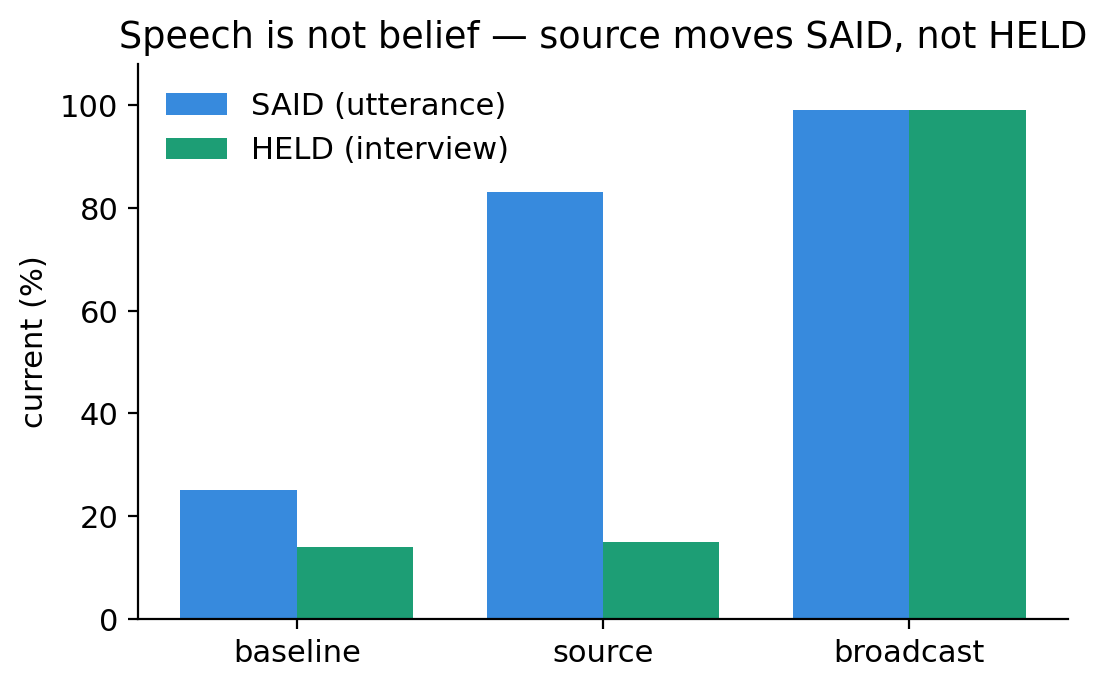
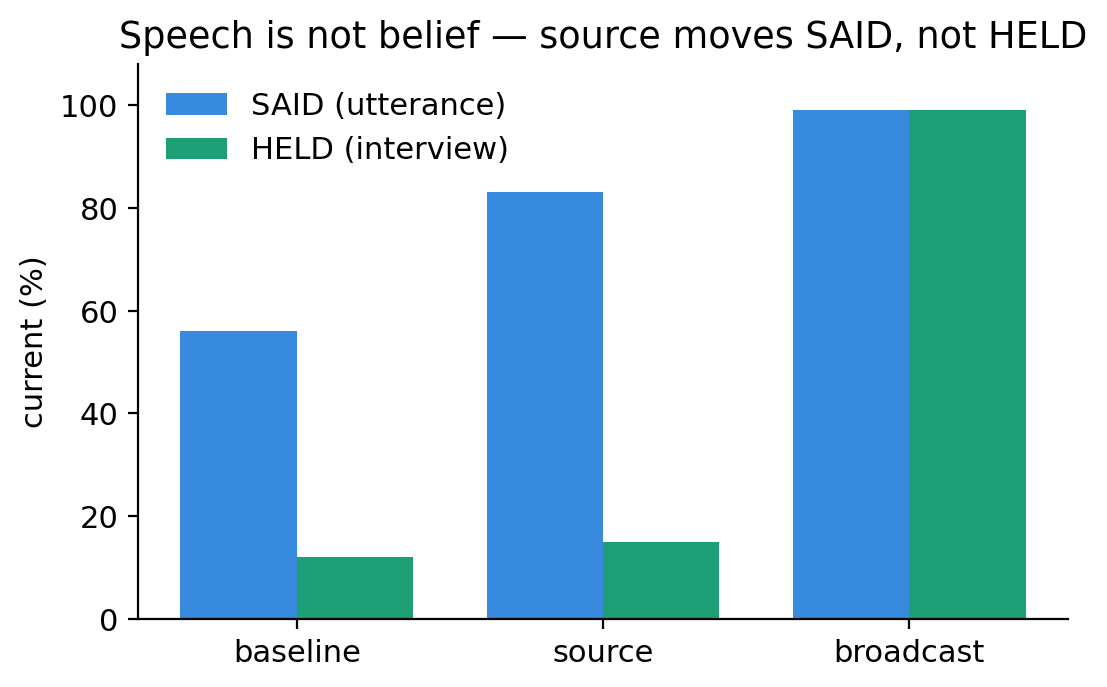
fix(5-Telephone): correct Fig 2 / Table 2 dissociation data (baseline SAID 25->56)
Review caught a data error: baseline SAID was written as 25%, but the M4 ledger shows
final-round said Sun:Sat = 18:14 = 56% (HELD baseline 3.0/25 = 12%, not 14%). source
(83/15) and broadcast (99/99) were correct. Fixed in draft_v1.md (text + Table 2),
figure_guide.md (Table 2 with raw counts), and re-rendered fig_say_vs_hold.png. The
corrected figure shows the dissociation more honestly: even baseline says more than it
holds, and source pushes SAID higher while HELD stays put.

Also normalized related-work system citations to bib-backed (Author Year): CAMEL
(li2023camel), AutoGen (wu2023autogen), SOTOPIA (zhou2024sotopia). All draft citations
verified present in references.bib (49 keys).

Changed region(s): [[0.1536, 0.4585, 0.2764, 0.7336], [0.2457, 0.7948, 0.3686, 0.8253]]

diff --git a/5-Telephone/paper/scripts/render_latest_figs.py b/5-Telephone/paper/scripts/render_latest_figs.py
@@ -39,8 +39,8 @@ save(fig, "fig_failed_levers.png")
 # 2 — say vs hold dissociation (M4)
 fig, ax = plt.subplots(figsize=(6, 3.6))
 x = np.arange(3); w = 0.38
-ax.bar(x-w/2, [25, 83, 99], w, label="SAID (utterance)", color=BLUE)
-ax.bar(x+w/2, [14, 15, 99], w, label="HELD (interview)", color=TEAL)
+ax.bar(x-w/2, [56, 83, 99], w, label="SAID (utterance)", color=BLUE)
+ax.bar(x+w/2, [12, 15, 99], w, label="HELD (interview)", color=TEAL)
 ax.set_xticks(x); ax.set_xticklabels(["baseline", "source", "broadcast"])
 ax.set_ylabel("current (%)"); ax.set_ylim(0, 108); ax.legend(frameon=False)
 ax.set_title("Speech is not belief — source moves SAID, not HELD")

diff --git a/5-Telephone/paper/draft_v1.md b/5-Telephone/paper/draft_v1.md
@@ -44,7 +44,7 @@ usually conflated:
 - **Held answer** — whether agents answer with the current value when probed after transmission.
 
 Generative-agent work establishes that information can spread through an agent society
-(Park et al. 2023; CAMEL; AutoGen; SOTOPIA). That is not the same as showing the spread is
+(Park et al. 2023; Li et al. 2023; Wu et al. 2023; Zhou et al. 2024). That is not the same as showing the spread is
 faithful. A correction, schedule change, or policy update can reach the conversation stream
 while failing to become the society's later answer. Our central empirical pattern is that reach
 and speech can improve **without** durable held truth — so "information spread" is not enough as
@@ -68,8 +68,9 @@ authoritative version, does it supersede the old one?"
 
 ## 2. Related work
 
-**Agent societies and communicative agents.** Generative Agents, CAMEL, AutoGen, and SOTOPIA
-establish the setting: agents talk, remember, coordinate, and simulate social environments. We
+**Agent societies and communicative agents.** Generative Agents (Park et al. 2023), CAMEL
+(Li et al. 2023), AutoGen (Wu et al. 2023), and SOTOPIA (Zhou et al. 2024) establish the setting:
+agents talk, remember, coordinate, and simulate social environments. We
 ask a missing reliability question inside that setting — fidelity of a *changing* held fact.
 
 **Misinformation, rumor, reach vs fidelity.** Rumor and continued-influence work distinguishes
@@ -144,16 +145,18 @@ source: Δ+0.8 (ns); broadcast: +21.8 (sig) → 99%.
 ### 4.2 Speech is not belief
 
 Figure 2 is the centerpiece. Separating SAID (final-round utterances) from HELD (private
-interviews) reveals a dissociation: under a persistent authoritative source, agents increasingly
-**say** the current value (SAID 25→83%) while their **held** belief stays at baseline (≈15%).
-Only broadcast moves both (99/99). Reach is not belief — a fact can be visible in the log while
+interviews) reveals a dissociation: under a persistent authoritative source, agents
+**say** the current value at the final round (SAID 83%) while their **held** belief stays near
+baseline (15%); even baseline agents say it more than they hold it (SAID 56% / HELD 12%). Only
+broadcast aligns both (99/99). Reach is not belief — a fact can be visible in the log while
 failing as held state.
 
 ![Figure 2. Speech is not belief (SAY/HOLD dissociation).](figures/fig_say_vs_hold.png)
 
-*Table 2 — HEARD→SAID→HELD.* baseline said 25 / held 14; source said 83 / held 15 (the gap);
-broadcast said 99 / held 99. The source row's high-SAID, low-HELD is the dissociation. The
-pattern replicates across three scenarios (G1) and survives thick personas (G2).
+*Table 2 — HEARD→SAID→HELD (final-round SAID; HELD at interview).* baseline said 56 / held 12;
+source said 83 / held 15 (the gap); broadcast said 99 / held 99. The source row's high-SAID,
+low-HELD is the dissociation — and even baseline says more than it holds. The pattern replicates
+across three scenarios (G1) and survives thick personas (G2).
 
 ### 4.3 The mechanism is entrenchment, not recency
 

diff --git a/5-Telephone/paper/figure_guide.md b/5-Telephone/paper/figure_guide.md
@@ -39,9 +39,9 @@
 ### 表 2 —— HEARD → SAID → HELD 机制表(解离的量化)
 | 条件 | SAID-current(末轮发言) | HELD-current(私下访谈) | 落差 |
 |---|---|---|---|
-| baseline | 25% | 14% | 小 |
-| 权威信源 | **83%** | **15%** | **大(解离)** |
-| 全员广播 | 99% | 99% | 无 |
+| baseline | 56% (18:14) | 12% (3.0/25) | 已有落差 |
+| 权威信源 | **83%** (25:5) | **15%** (3.8/25) | **大(解离)** |
+| 全员广播 | 99% (221:3) | 99% (24.8/25) | 无 |
 
 - **结论**:信源那一行的"高 SAID、低 HELD"就是解离的核心证据——干预改变了"说什么",没改变"社会持有什么"。
 
